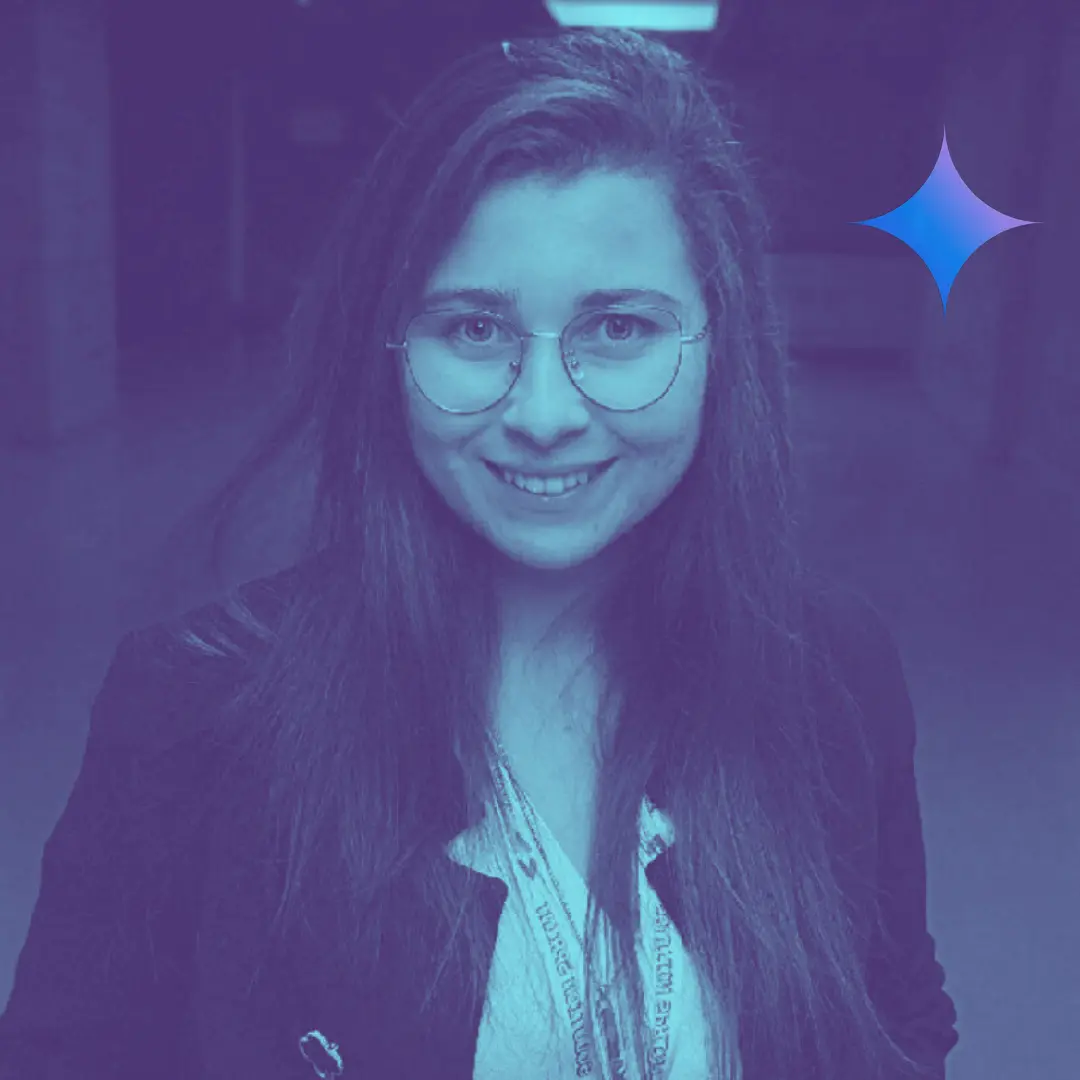
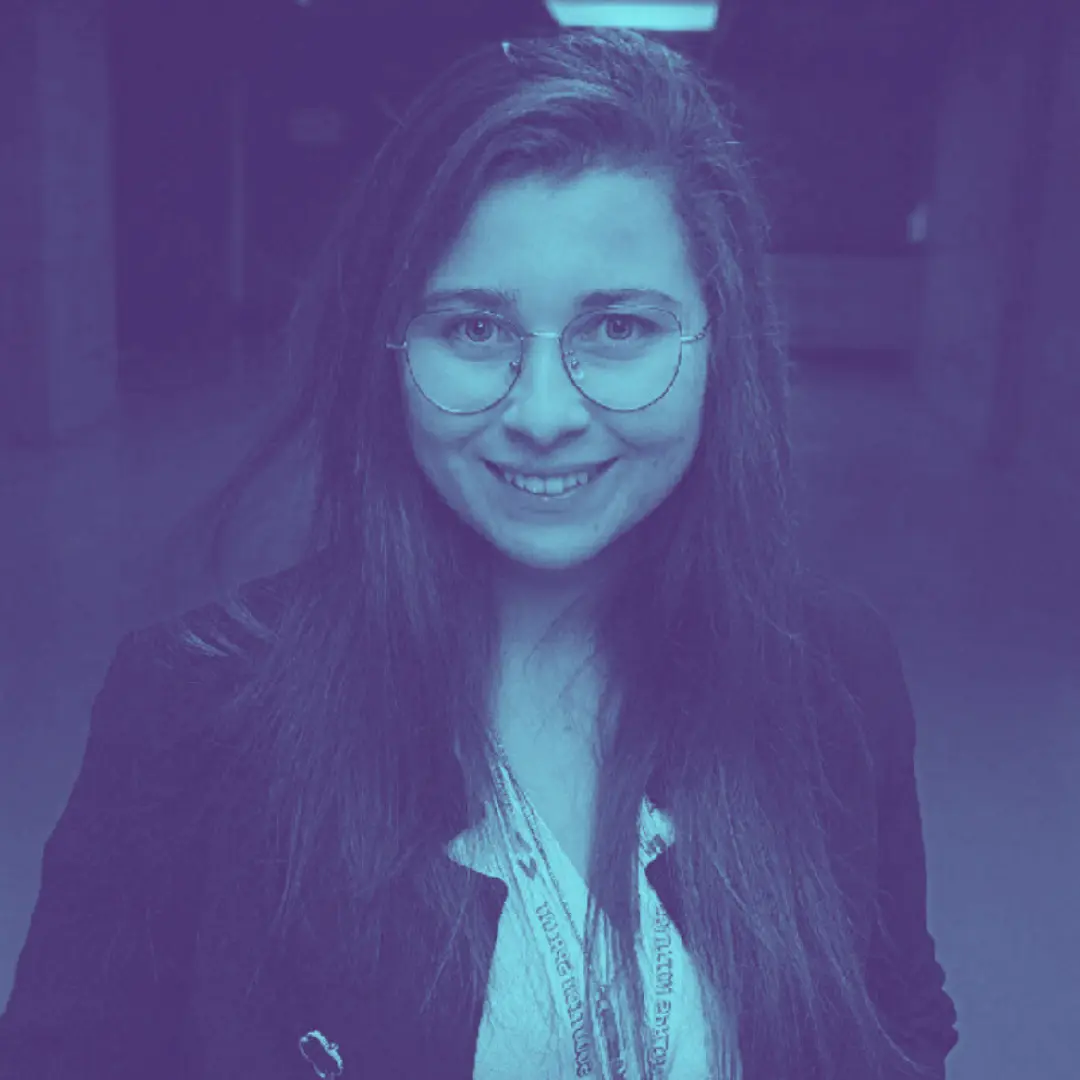
fix: mobile images for speakers

Changed region(s): [[0.7944, 0.1222, 0.9472, 0.275]]

diff --git a/src/components/speakers.tsx b/src/components/speakers.tsx
@@ -42,7 +42,7 @@ const Speakers: React.FC<SpeakerCarouselProps> = ({ speakers }) => {
                   <Image
                     src={`/images/speakers/${slugify(speaker.fullName)}.webp`}
                     alt={speaker.fullName}
-                    className="object-cover"
+                    className="object-cover object-[50%_25%]"
                     fill
                     sizes="(max-width: 640px) 100vw, (max-width: 768px) 50vw, (max-width: 1024px) 33vw, (max-width: 1280px) 25vw, 20vw"
                     loading="lazy"
